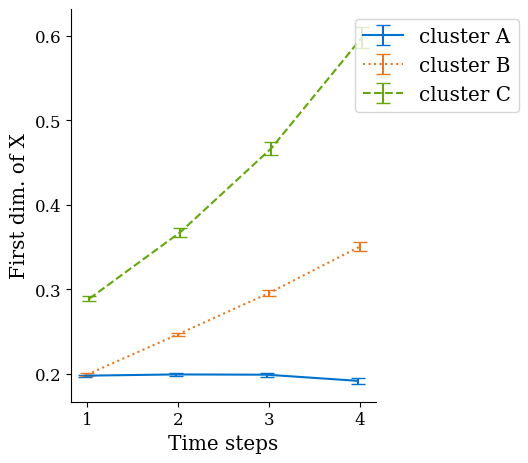
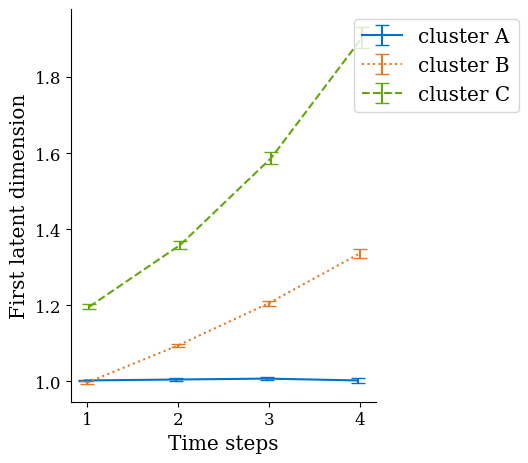
updated requirements

diff --git a/inference_synthetic.py b/inference_synthetic.py
@@ -28,8 +28,6 @@ plt.rcParams["font.size"] = 12
 pwd = pathlib.Path(__file__).absolute().parent
 alpha = 1.0
 n_clusters = 3
-save_figs = True
-show_figs = True
 
 
 def main():
@@ -166,7 +164,7 @@ def main():
     )
 
     util.plot_metric_vs_clusters_over_time(
-        metric=ztest[..., 0],
+        metric=ztest_orig[..., 0],
         assignments=predicted_ctest,
         metric_name="First latent dimension",
         title="",
@@ -177,8 +175,8 @@ def main():
     )
 
     util.histograms_by_cluster(
-        metrics=np.column_stack([ztest[0], xtest[0]]),
-        metric_names=[f"z dim={i}" for i in range(ztest.shape[-1])]
+        metrics=np.column_stack([ztest_orig[0], xtest[0]]),
+        metric_names=[f"z dim={i}" for i in range(ztest_orig.shape[-1])]
         + [f"x dim={i}" for i in range(xtest.shape[-1])],
         clusters=predicted_ctest,
         μσ_overlay=best_mdl.get_initial_means_and_stds(),
@@ -189,6 +187,33 @@ def main():
         ),
         show=False,
         nbins=15,
+    )
+
+    _, probs = best_mdl.mle_cluster_assignment(
+        states=ztest,
+        observations=xtest,
+        return_probs=True,
+    )
+
+    util.plot_weighted_means_2d_trajectories(
+        weights=probs[
+            [
+                best_mdl.inverse_correspondence[s]
+                for s in string.ascii_uppercase[:n_clusters]
+            ]
+        ].T,
+        values=ztest_orig,
+        colors=[
+            "#0072CE",
+            "#E87722",
+            "#64A70B",
+        ],
+        saveloc=pwd.joinpath("figures").joinpath("weighted_cluster_means.png"),
+        xlim=(np.nanmin(ztest_orig[..., 0]), np.nanmax(ztest_orig[..., 0])),
+        ylim=(np.nanmin(ztest_orig[..., 1]), np.nanmax(ztest_orig[..., 1])),
+        xlabel="state dim = 0",
+        ylabel="state dim = 1",
+        arrow_width=0.01,
     )
 
 

diff --git a/README.md b/README.md
@@ -1,7 +1,6 @@
 ## Unsupervised Trajectory Clustering: Getting Started
 
 [![DOI](https://zenodo.org/badge/692067654.svg)](https://zenodo.org/badge/latestdoi/692067654)
-[![SWH](https://archive.softwareheritage.org/badge/swh:1:dir:7b557966063948e3f7cfece6313419e305b96371/)](https://archive.softwareheritage.org/swh:1:dir:7b557966063948e3f7cfece6313419e305b96371;origin=https://github.com/burkh4rt/Unsupervised-Trajectory-Clustering-Starter;visit=swh:1:snp:fb317177a684cf9f7ad2a4789cf778b23836f075;anchor=swh:1:rev:f7b8f72a366324f743ac27dc15e3f6beca4b1c2c)
 
 The code uses mixtures of state space models to perform unsupervised clustering
 of short trajectories. Within the state space framework, we let
